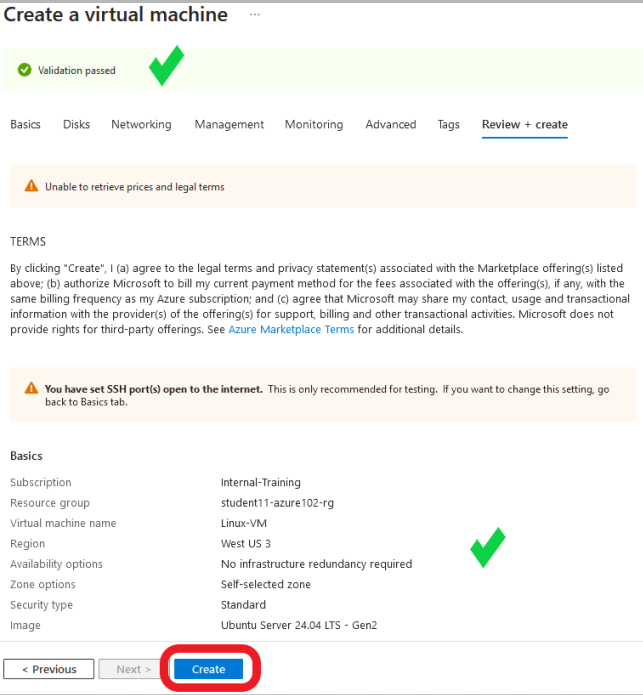
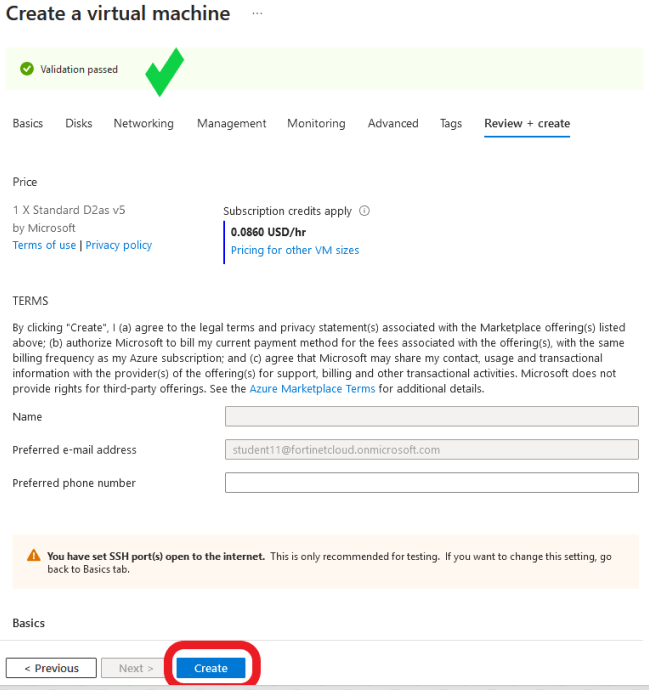
24JUL24-R2

diff --git a/content/3_Hands-On-Workshop/3_2-create-linux-vm.md b/content/3_Hands-On-Workshop/3_2-create-linux-vm.md
@@ -1,5 +1,5 @@
 ---
-title: "Task 2 - Creating a Linux VM in Azure"
+title: "Task 2 - Creating Linux Virtual Machines in Azure"
 weight: 2
 ---
 
@@ -7,24 +7,26 @@ weight: 2
 
 
 
-Now that you have a **VNET** deployed, you are going to deploy a Linux VM and confirm access to the Internet and identify the assigned public IP (PIP).
+Now that you have a **VNET** deployed, you are going to deploy two Linux VMs in your VNET, identify assigned public IP (PIP), confirm access to the Internet, and confirm access to between each VM.
 
- **Creation Steps**
-    - 1. Navigate into your Resource Group and click on the **+ Create** located at the top left of the tool bar.
+One VM, **Linux-A-VM**, will be assigned to the **Protected-A_Subnet**, and the second VM, **Linux-B-VM**, will be assigned to the **Protected-B_Subnet**.
+
+**Steps to create Linux-A-VM**
+- 1. Navigate into your Resource Group and click on the **+ Create** located at the top left of the tool bar.
 ![](../Images/Azure-creating-vnet.PNG)  
 
 You will be redirected to the Azure Marketplace.
 
-In the Marketplace search bar, enter **ubuntu 24.04 lts** and then enter.  Navigate to the **Ubuntu 24.04 LTS - all plans including Ubuntu Pro** offering from **Canonical** and select **Create** and **Ubuntu Server 24.04 LTS**.
+- 2. In the Marketplace search bar, enter **ubuntu 24.04 lts** and then enter.  Navigate to the **Ubuntu 24.04 LTS - all plans including Ubuntu Pro** offering from **Canonical** and select **Create** and **Ubuntu Server 24.04 LTS**.
 ![](../Images/Azure-create-linux-vm.PNG)
 
 
 You will be redirected to the **Create a virtual machine** template.
 
-- Under the **Basics** tab, update the following fields:
+- 3. Under the **Basics** tab, update the following fields:
 (Leave the default entry of the other fields not listed here)
     - **Resource group**:  "**studentxx-azure102-rg**"
-    - **Virtual machine name**:  "**Linux-VM**"
+    - **Virtual machine name**:  "**Linux-A-VM**"
     - **Availability options**:  "**No infrastructure redundancy required**"
     - **Security type**:  "**Standard**"
     - **Size**:  Select "**See all sizes**"
@@ -38,49 +40,61 @@ You will be redirected to the **Create a virtual machine** template.
     - **Password**:  "**FortinetAzure2024!**" (Same as your Azure portal login)
     - **Confirm password**:  "**FortinetAzure2024!**"
 
-- Confirm the changes and the other fields default entries match the following diagram.
+- 4. Confirm the changes and the other fields default entries match the following diagram.
 ![](../Images/Azure-create-linux-vm-1.PNG)
 ![](../Images/Azure-create-linux-vm-2.PNG)
 ![](../Images/Azure-create-linux-vm-3.PNG)
 
-- Select **Next: Disks >**.
+- 5. Select **Next: Disks >**.
 
-- On the **Disk** tab, keep the default settings and click **Next:Networking >**.
+- 6. On the **Disk** tab, keep the default settings and click **Next:Networking >**.
 Feel free to read through the available disk services that can be changed/enabled.
 
-- Under the **Networking** tab, update the following fields:
+- 7. Under the **Networking** tab, update the following fields:
 (Leave the default entry of the other fields not listed here)
     - **Virtual network**:  "**Studentxx_VNET**"
     - **Subnet**:  "**Protected-A_Subnet (192.168.1.128/27)**"
     - **Public IP**:  Select **Create new**
         - On the new **Create public IP address** on the right, enter the following:
-        - **Name**:  "**Linux-VM_PIP**"
+        - **Name**:  "**Linux-A-VM_PIP**"
         - **Routing preference**:  "**Internet**"
         - Select **OK**
     - **Delete public IP and NIC when VM is deleted**:  **Select**
 
-- Confirm the changes and the other fields default entries match the following diagram.
+- 8. Confirm the changes and the other fields default entries match the following diagram.
 ![](../Images/Azure-create-linux-vm-4.PNG)
 ![](../Images/Azure-create-linux-vm-5.PNG)
 
-- Select **Review + create >**.
+- 9. Select **Review + create >**.
 
-- Feel free to read through the **Management**, **Monitoring**, **Advanced**, and **Tags** tabs for additional services that can be changed/enabled.
+- 10. Feel free to read through the **Management**, **Monitoring**, **Advanced**, and **Tags** tabs for additional services that can be changed/enabled.
 
-- Confirm the template validation has passed and select **Create**
+- 11. Confirm the template validation has passed and select **Create**
 ![](../Images/Azure-create-linux-vm-6.PNG)
 
-- The **Deployment is in progress** notice should become active.
+- 12. The **Deployment is in progress** notice is displayed.
 ![](../Images/Azure-create-linux-vm-7.PNG)
 
+- 13. Once the **Your deployment is complete** notice is displayed, click on the **student11-azure102-rg** link to be re-directed to your resource group.
+![](../Images/Azure-create-linux-vm-10.PNG)
+
+- 14. Verify the new **Linux-A-VM** and the associated componets are listed.
+![](../Images/Azure-create-linux-vm-11.PNG)
+
+**Steps to create Linux-B-VM**
+- 15. Follow the same 1-14 steps above to create the **Linux-B-VM**
+    - You will need to alter the following where appropriate:
+        -   - **Virtual machine name**:  "**Linux-B-VM**"
+            - **Subnet**:  "**Protected-B_Subnet (192.168.1.160/27)**"
+            - **Public IP**:  Select **Create new**
+            - On the new **Create public IP address** on the right, enter the following:
+            - **Name**:  "**Linux-B-VM_PIP**"
+
+- 16. Verify the new **Linux-B-VM** and the associated componets are listed.
+![](../Images/Azure-create-linux-vm-12.PNG)
 
 
-
-
-
-
-
-- Continue to **Task 3 - Confirm access to the Internet and assigned public IP (PIP).**.
+- Continue to **Task 3 - Confirm access to the Internet and assigned public IP (PIP).**
 
 
 

diff --git a/content/3_Hands-On-Workshop/3_3-identify-pip-access.md b/content/3_Hands-On-Workshop/3_3-identify-pip-access.md
@@ -1,0 +1,27 @@
+---
+title: "Task 3 - identify assigned public IP (PIP), access to the Internet, and access between VMs."
+weight: 3
+---
+
+
+
+
+
+Now that you have created the virtual machine, **Linux-VM**, you are going to identify their assigned public IP (PIP), confirm access to the Internet, and connectivity between each VM via their assigned subnets.
+
+ **Access the serial console of the virtual machine **Linux-A-VM**
+- 1. Navigate into your Resource Group and click on the virtual machine **Linux-A-VM**.  
+![](../Images/Azure-confirm-access-pip.PNG)  
+    
+- You will be redirected to the **Linux-A-VM** Overview page.
+
+- 2. Under the **Essentials** section, right hand side column, identify the assigned public IP of the **Linux-A_VM**
+        - Navigate to the bottom left of the screen, expand the **Help** menu, and select **Serial Console**.
+![](../Images/Azure-confirm-access-pip1.PNG)
+
+- You will be redirected to the **Linux-A-VM | Serial Console** screen.
+
+- 3. Login to the **Linux-A-VM** console using the credentials you used when creating the **Linux-A-VM**.
+![](../Images/Azure-confirm-access-pip2.PNG)
+
+- 4.  From the **Linux-A-VM** CLI, 

diff --git a/content/_index.md b/content/_index.md
@@ -1,10 +1,10 @@
 ---
-title: "Securing Acme Corp's AWS Traffic Flows with FortiGate NGFW"
+title: "Securing ABC Corp's Azure VNET with FortiGate NGFW"
 weight: 1
 archetype: home
 ---
 
-## Acme Corp is migrating on prem apps/workloads to AWS Public cloud
+## ABC Corp is migrating on prem apps/workloads to Azure Public cloud
 
 - 3 tier web apps (Front end, middleware, database)
 
